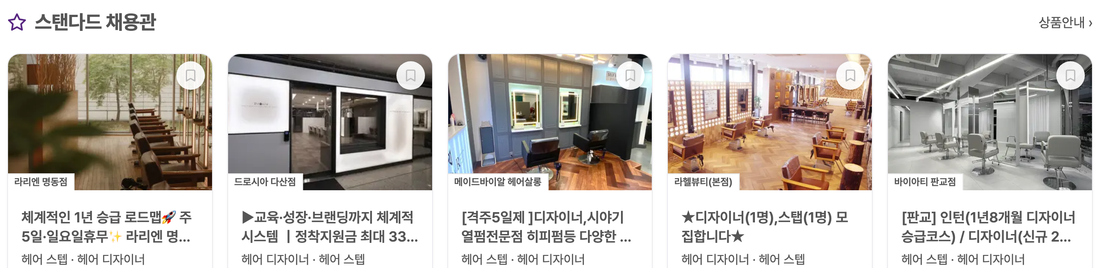
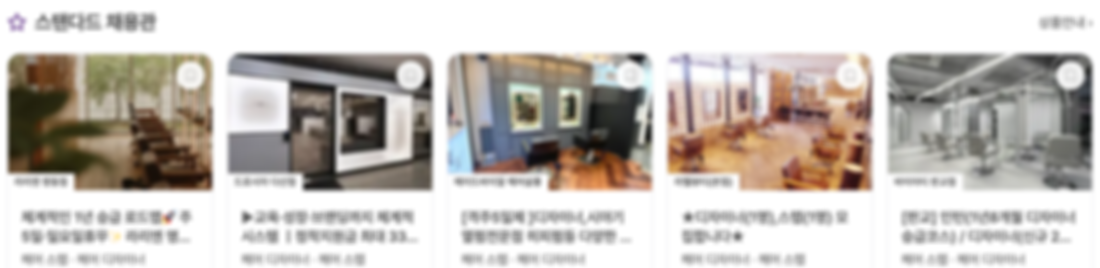
노출 자리는 전체 화면과 확대, 두 장으로 말한다
상품 소개에서 이벤트를 걷어냈다. 이벤트 기간에 가입하면 라이트가 되고
최상단 자격이 붙는다는 것은 이벤트 페이지가 할 말이지, 라이트가 무엇인가에
대한 답이 아니다. 기간이 끝나면 지워야 하는 문장을 상품 설명 안에 심어 두면
그때 상품 설명이 함께 흔들린다.

노출 자리도 틀렸다. 라이트는 메인 채용관에 걸리지 않는데 메인 화면을 찍어
두었으니 산 사람이 첫 화면을 기대한다. 실제로는 전체 채용공고 목록에서
스탠다드 구간 아래, 스타트 구간 위다.

그래서 두 장으로 나눈다. 왼쪽은 목록 화면을 통째로 줄여 어디쯤인지를,
오른쪽은 구간이 바뀌는 자리를 확대해 경계를 보인다. 전체를 원본 크기로
깔아 두니 안내서가 아니라 화면 구경이 되어서, 전체는 작게 두고 경계만
크게 뒀다. 캡처는 흐려 뒀다 — 매장 이름이 또렷하면 그 매장이 그 등급을
산 것처럼 읽힌다.

메인 노출이 없는 상품에는 없다고 적고 어디부터인지까지 적는다.

diff --git a/app/globals.css b/app/globals.css
@@ -15955,10 +15955,6 @@ select option { background-color: #fff; color: var(--color-text-strong); }
    광고 문장을 쓰지 않는다.
    =========================================== */
 .pi { max-width: 780px; margin: 0 auto; color: #555; font-size: 14px; }
-.pi-evt { display: flex; align-items: center; justify-content: space-between; gap: 10px;
-  background: var(--color-primary); color: #fff; text-decoration: none;
-  font-size: 13px; font-weight: 600; padding: 10px 18px; border-radius: 4px 4px 0 0; }
-.pi-evt span { font-weight: 400; opacity: .85; font-size: 12.5px; flex: none; }
 .pi-hd { border-bottom: 2px solid #1f1f22; padding: 22px 0 16px; }
 .pi-kind { font-size: 12px; color: var(--color-primary); font-weight: 700; margin: 0 0 6px; }
 .pi-nm { font-size: 26px; font-weight: 700; color: #1f1f22; margin: 0 0 7px; letter-spacing: -.5px; }
@@ -15994,6 +15990,25 @@ select option { background-color: #fff; color: var(--color-text-strong); }
 .pi-shot img { display: block; width: 100%; }
 .pi-cap { font-size: 12px; color: #8a8a90; margin: 6px 0 18px; line-height: 1.5; }
 .pi-cap b { color: var(--color-primary); font-weight: 600; }
+
+/* 목록 캡처 위에 구간만 그린다. 글자는 안 읽혀도 된다 — 어느 칸에 서는지가
+   전부라서, 오히려 매장 이름이 또렷하면 그 매장이 그 등급을 산 것처럼 읽힌다. */
+/* 전체 화면은 작게, 경계만 크게. 캡처는 자리를 가리키는 그림이지 읽을 것이
+   아니라서, 원본 크기로 깔면 안내서가 아니라 화면 구경이 된다. */
+.pi-where { display: grid; grid-template-columns: 250px 1fr; gap: 18px; align-items: start; }
+.pi-where-t { font-size: 13px; color: #555; line-height: 1.65; margin: 12px 0 0; word-break: keep-all; }
+.pi-where-t b { color: var(--color-primary); font-weight: 600; }
+.pi-list { position: relative; border: 1px solid var(--card-line); overflow: hidden; }
+.pi-list img { display: block; width: 100%; }
+.pi-tiers { position: absolute; inset: 0; }
+.pi-tier { position: absolute; left: 0; right: 0;
+  border-top: 1px dashed rgba(31, 31, 34, .32); border-bottom: 1px dashed rgba(31, 31, 34, .32); }
+.pi-tier span { position: absolute; top: 6px; left: 6px;
+  background: rgba(255, 255, 255, .94); border: 1px solid var(--card-line); color: #555;
+  font-size: 11px; font-weight: 600; padding: 2px 8px; border-radius: 2px; white-space: nowrap; }
+.pi-tier.on { background: rgba(88, 38, 129, .09);
+  box-shadow: inset 0 0 0 1px var(--color-primary), inset 4px 0 0 var(--color-primary); }
+.pi-tier.on span { background: var(--color-primary); border-color: var(--color-primary); color: #fff; }
 
 .pi-warn { margin: 0; padding: 0; list-style: none; }
 .pi-warn li { font-size: 12.5px; color: #8a8a90; line-height: 1.75; padding-left: 11px; position: relative; }

diff --git a/lib/companyPlans.ts b/lib/companyPlans.ts
@@ -207,7 +207,7 @@ export const 요금제FAQ = [
   { q: "결제는 어떻게 하나요?", a: "무통장입금으로 받습니다. 주문 후 안내되는 계좌로 입금하시면 확인 뒤 이용권이 적용됩니다." },
   { q: "이용권은 언제부터 시작되나요?", a: "입금이 확인된 날부터 시작합니다. 이용 중에 다시 결제하면 남은 기간에 이어 붙습니다." },
   { q: "기간이 끝나면 어떻게 되나요?", a: "스타트로 돌아갑니다. 자동 결제는 없습니다. 걸려 있던 공고는 게재가 끝나고, 무료 체험을 이미 쓰셨다면 새 공고는 이용권을 다시 신청해야 올릴 수 있습니다." },
-  { q: "무료로도 공고를 올릴 수 있나요?", a: "가입하면 스타트로 시작합니다. 첫 공고를 올린 날부터 7일 동안 라이트를 그대로 써 보실 수 있어요 — 공고는 몇 건이든 올릴 수 있고 그동안 계속 걸려 있습니다. 7일이 지나면 걸려 있던 공고가 내려가고, 계속 걸어 두시려면 라이트부터 신청하시면 됩니다." },
+  { q: "무료로도 공고를 올릴 수 있나요?", a: `가입하면 스타트로 시작합니다. 첫 공고를 올린 날부터 ${스타트.게재일}일 동안 라이트를 그대로 써 보실 수 있어요 — 공고는 몇 건이든 올릴 수 있고 그동안 계속 걸려 있습니다. ${스타트.게재일}일이 지나면 걸려 있던 공고가 내려가고, 계속 걸어 두시려면 라이트부터 신청하시면 됩니다.` },
   { q: "메인 채용관은 어떻게 노출되나요?", a: "프리미엄 8칸, 스탠다드 25칸이며 5초마다 바뀝니다. 덜 노출된 공고가 먼저 앞자리에 서기 때문에 산 곳은 모두 돌아가며 첫 화면에 뜹니다." },
   { q: "세금계산서를 받을 수 있나요?", a: "발행해 드립니다. 주문 후 고객센터로 사업자등록증을 보내주세요." },
   { q: "환불이 되나요?", a: "이용권을 쓰지 않은 상태에서 7일 안에 요청하시면 전액 환불합니다. 인재 연락처를 열람했거나 제안을 보낸 뒤에는 남은 기간만큼 일할 계산합니다." },
